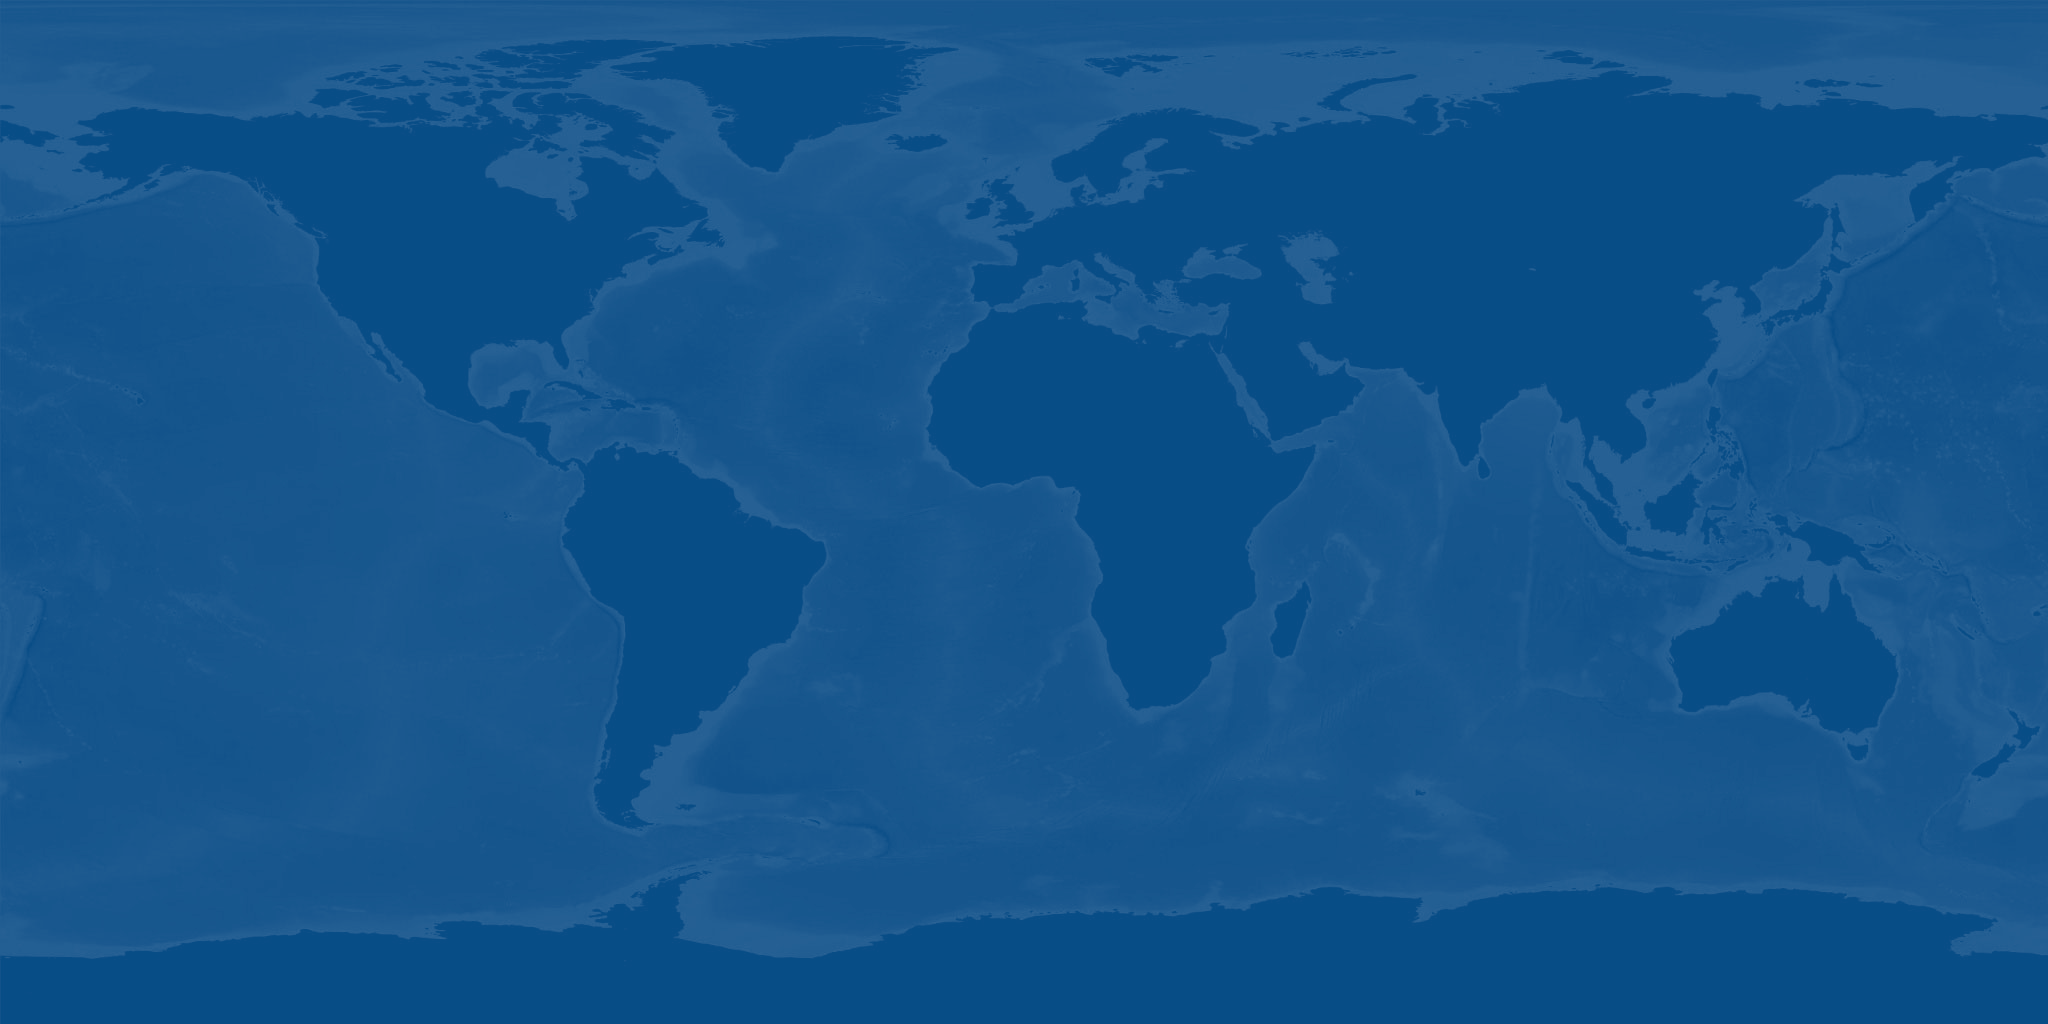
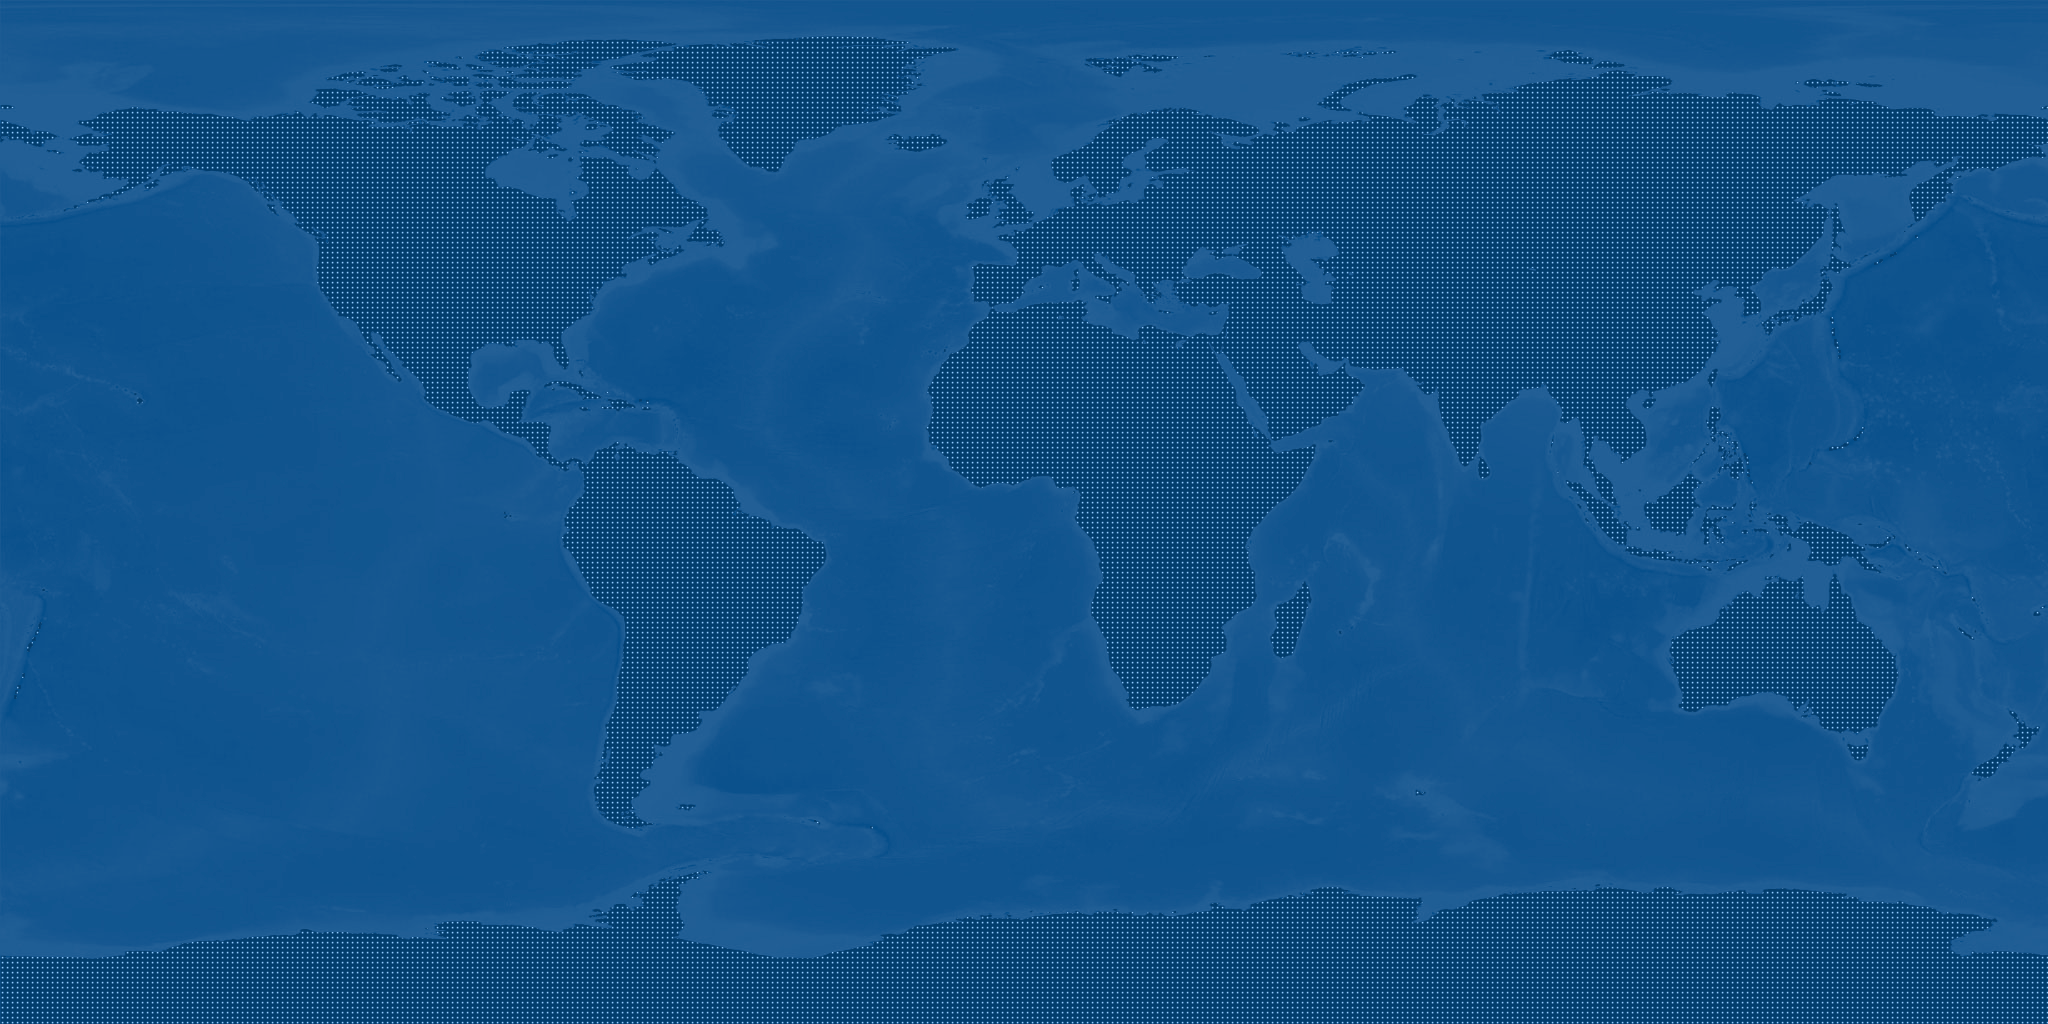
updated nodes on globe.

diff --git a/src/app/globe/globe.component.ts b/src/app/globe/globe.component.ts
@@ -30,7 +30,7 @@ export class GlobeComponent implements OnInit {
   }
 
   ngAfterViewInit() {
-    const MIN_POPULATION_FILTER = 0.003;
+    const MIN_POPULATION_FILTER = 0.01;
 
 
     this.globe = new Globe(this.rendererContainer.nativeElement, {
@@ -41,7 +41,7 @@ export class GlobeComponent implements OnInit {
     const self = this;
     setTimeout(() => {
       const xhr = new XMLHttpRequest();
-      xhr.open('GET', '../../assets/population.json', true);
+      xhr.open('GET', '../../assets/population_small.json', true);
       xhr.onreadystatechange = function(e) {
         if (xhr.readyState === 4) {
           if (xhr.status === 200) {
@@ -53,7 +53,7 @@ export class GlobeComponent implements OnInit {
                   return a.concat([[b]]);
               }
             }, [[]]).filter((v) => v[2] > MIN_POPULATION_FILTER).forEach((v) => {
-              self.globe.addPoint(v[0], v[1], v[2]);
+                self.globe.addPoint(v[0], v[1], v[2]);
             });
             self.globe.renderPoints();
           }

diff --git a/src/app/globe/globe.ts b/src/app/globe/globe.ts
@@ -158,12 +158,12 @@ export class Globe {
     }
 
     renderPoints() {
-        this.renderPointsRec(this.points, 10, this.points.length / this.POINTS_RENDER_FACTOR);
+        this.renderPointsRec(this.points, 10, Math.round(this.points.length / this.POINTS_RENDER_FACTOR));
     }
 
     private renderPoint(pointData, parent) {
         const color = (0xFFFFFF << 0);
-        const geometry = new THREE.BoxGeometry( 1, 1, pointData.value * 600 );
+        const geometry = new THREE.BoxGeometry( 1, 1, pointData.value * 6000 );
         const material = new THREE.MeshBasicMaterial( {color: new THREE.Color( color )} );
         const cylinder = new THREE.Mesh( geometry, material );
 

diff --git a/src/app/overview/overview.component.html b/src/app/overview/overview.component.html
@@ -1,7 +1,7 @@
 <div class="row" style="margin-bottom:60px !important">
     <div class="col-lg-12">
         <img src="https://eventil.s3.amazonaws.com/uploads/group/avatar/2803/highres_468487350.jpeg" style="height:100px;width:auto;"/>
-        <h4 style="color:#FFF;margin-left:100px;margin-top: -15px;font-size: 19px">Realtime visualization</h4>
+        <!--h4 style="color:#FFF;margin-left:100px;margin-top: -15px;font-size: 19px">Realtime visualization</h4-->
     </div>
 </div>
 

diff --git a/src/app/app.component.css b/src/app/app.component.css
@@ -1,8 +1,6 @@
 .scanLines {
-    /*** WEBKIT ***/
     background: -webkit-repeating-linear-gradient(top, transparent 0px, transparent 1px, rgba(0, 0, 0, 0.1) 1px, rgba(0, 0, 0, 0.1) 4px);
     -webkit-background-size: 100% 4px;
-    /** MOZILLA **/
     background: -moz-repeating-linear-gradient(top, transparent 0px, transparent 1px, rgba(0, 0, 0, 0.1) 1px, rgba(0, 0, 0, 0.1) 4px);
     -moz-background-size: 100% 4px;
   }

diff --git a/src/app/firstpage/firstpage.component.css b/src/app/firstpage/firstpage.component.css
@@ -163,6 +163,7 @@
 .graph-border{
     position: absolute;
     left:0px;
+    height: 100px;
     -webkit-box-shadow: 23px 0px 28px 25px rgba(28,88,138,1);
     -moz-box-shadow: 23px 0px 28px 25px rgba(28,88,138,1);
     box-shadow: 23px 0px 28px 25px rgba(28,88,138,1);
